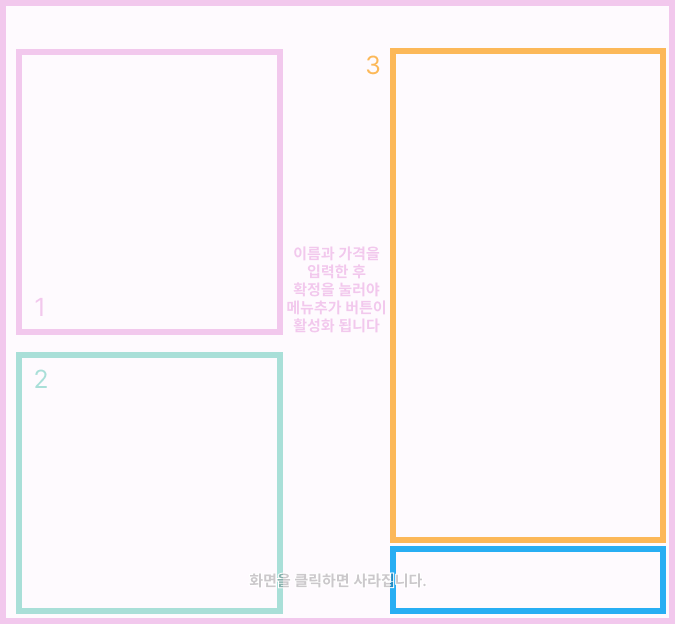
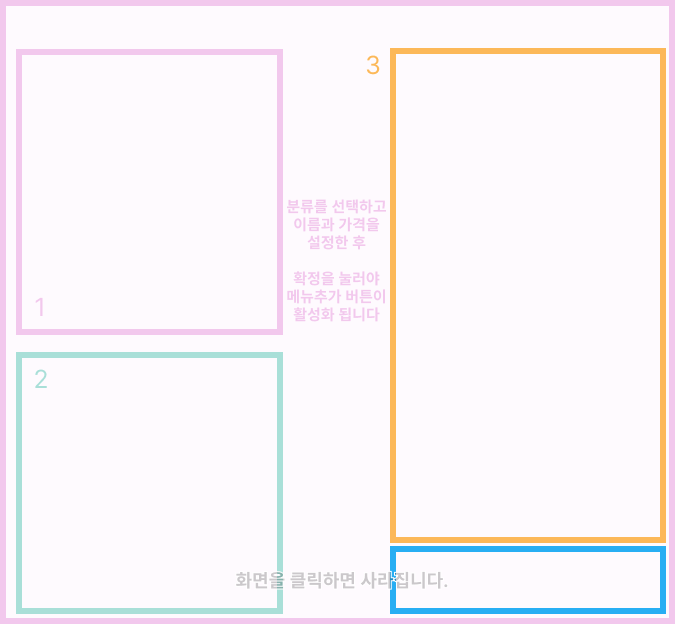
튜토리얼 디자인 수정 및 가격 숫자만 입력하게 만듬

Changed region(s): [[0.4044, 0.3045, 0.5911, 0.5481], [0.3422, 0.9135, 0.6533, 0.9439]]

diff --git a/GreatPizza/src/frame/MenuPopup.java b/GreatPizza/src/frame/MenuPopup.java
@@ -39,6 +39,8 @@ import javax.swing.ScrollPaneConstants;
 import java.awt.event.ActionListener;
 import java.util.ArrayList;
 import java.util.List;
+import java.util.regex.Matcher;
+import java.util.regex.Pattern;
 import java.awt.event.ActionEvent;
 import java.awt.event.MouseAdapter;
 import java.awt.event.MouseEvent;
@@ -80,7 +82,7 @@ public class MenuPopup extends JFrame {
 		setUndecorated(true);
 		getContentPane().setLayout(null);
 		setLocation(700, 250);
-		
+
 		final JComboBox comboBox = new JComboBox();
 		comboBox.setEnabled(false);
 		ImageIcon tutoImage = new ImageIcon(getClass().getResource("/튜토리얼.png"));
@@ -143,9 +145,13 @@ public class MenuPopup extends JFrame {
 		btnNewButton_1.setForeground(Color.WHITE);
 		panel_5.add(btnNewButton_1);
 
+		RoundButton btnNewButton_3 = new RoundButton("확 정");
+		RoundButton btnNewButton_3_1 = new RoundButton("수 정");
+
 		final JComboBox comboBox_1 = new JComboBox();
 		comboBox_1.addActionListener(new ActionListener() {
 			public void actionPerformed(ActionEvent arg0) {
+				btnNewButton_3.setEnabled(true);
 				String type = (String) comboBox_1.getSelectedItem();
 
 				if (type.equals("피자")) {
@@ -195,6 +201,13 @@ public class MenuPopup extends JFrame {
 		panel_3.setBounds(17, 234, 251, 50);
 		getContentPane().add(panel_3);
 		panel_3.setLayout(null);
+		
+				JLabel priceNotion = new JLabel("숫자 입력하세요");
+				priceNotion.setForeground(Color.PINK);
+				priceNotion.setHorizontalAlignment(SwingConstants.CENTER);
+				priceNotion.setBounds(86, 10, 153, 30);
+				priceNotion.setVisible(false);
+				panel_3.add(priceNotion);
 
 		JLabel lblNewLabel_3 = new JLabel("희망가격");
 		lblNewLabel_3.setHorizontalAlignment(SwingConstants.CENTER);
@@ -569,18 +582,28 @@ public class MenuPopup extends JFrame {
 		btnNewButton.setBounds(438, 574, 186, 38);
 		getContentPane().add(btnNewButton);
 
-		RoundButton btnNewButton_3 = new RoundButton("확 정");
-		RoundButton btnNewButton_3_1 = new RoundButton("수 정");
+		btnNewButton_3.setEnabled(false);
 		btnNewButton_3_1.setEnabled(false);
 		btnNewButton_3.setForeground(Color.WHITE);
+
+		// 확정버튼 액션리스너
 		btnNewButton_3.addActionListener(new ActionListener() {
 			public void actionPerformed(ActionEvent arg0) {
-				if (!menuName.getText().equals("") && !hopedPrice.getText().equals("")) {
-					btnNewButton.setEnabled(true);
-					menuName.setEnabled(false);
-					hopedPrice.setEnabled(false);
-					btnNewButton_3.setEnabled(false);
-					btnNewButton_3_1.setEnabled(true);
+				Pattern pattern = Pattern.compile("[0-9]{1,}");
+				Matcher matcher = pattern.matcher(hopedPrice.getText());
+				priceNotion.setVisible(false);
+
+				if (matcher.matches()) {
+					if (!menuName.getText().equals("") && !hopedPrice.getText().equals("") && selectType != "") {
+						btnNewButton.setEnabled(true);
+						menuName.setEnabled(false);
+						hopedPrice.setEnabled(false);
+						btnNewButton_3.setEnabled(false);
+						btnNewButton_3_1.setEnabled(true);
+					}
+				} else {
+					priceNotion.setVisible(true);
+					hopedPrice.setText("");
 				}
 			}
 		});
@@ -626,8 +649,8 @@ public class MenuPopup extends JFrame {
 		JLabel background = new JLabel(icon);
 		background.setBounds(0, 0, 671, 622);
 		panel_6.add(background);
-		
-		ImageIcon dot = new ImageIcon("GreatPizza/img//back.png");
+
+		ImageIcon dot = new ImageIcon(getClass().getResource("/back.png"));
 		JLabel dots = new JLabel(dot);
 		dots.setBounds(5, 7, 60, 30);
 		dots.addMouseListener(new MouseListener() {
@@ -685,7 +708,7 @@ public class MenuPopup extends JFrame {
 		lblNewLabel_5.setIcon(image);
 		lblNewLabel_5.setText("");
 	}
-	
+
 	static class CustomScrollBarUI extends BasicScrollBarUI {
 
 		@Override

diff --git a/GreatPizza/src/frame/MenuResetPopup.java b/GreatPizza/src/frame/MenuResetPopup.java
@@ -662,7 +662,7 @@ public class MenuResetPopup extends JFrame {
 		panel_6.setBackground(graycolor);
 		getContentPane().add(panel_6);
 		panel_6.setLayout(null);
-		ImageIcon backIcon = new ImageIcon(getClass().getResource("Frame 94.png"));
+		ImageIcon backIcon = new ImageIcon(getClass().getResource("/Frame 94.png"));
 
 		JPanel panel_7 = new JPanel();
 		panel_7.setBounds(12, 56, 262, 242);
